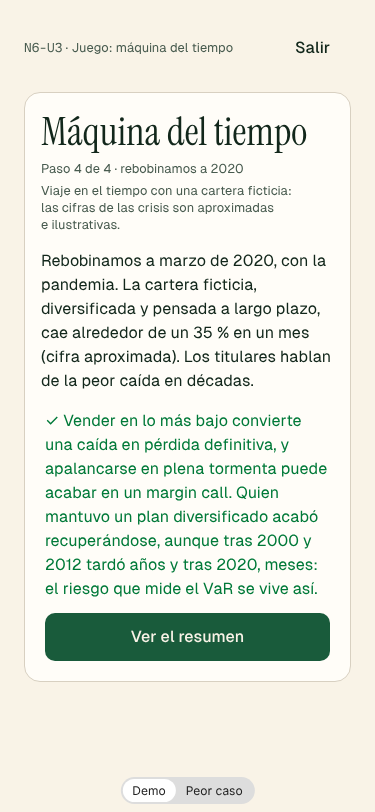
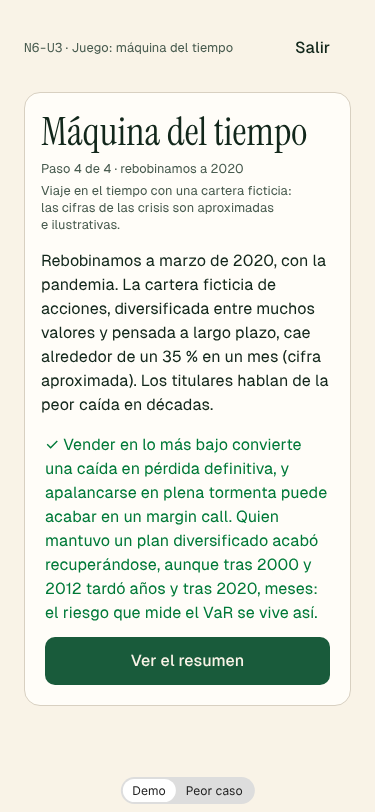
content: n6-u3 ronda 1 (CVaR al 98 %, backtest al 95 %, Jefe e5, salto) en draft
Claude-Session: https://claude.ai/code/session_01MmSrs1YdgLJhPMsRgWQM9q

Changed region(s): [[0.1173, 0.3387, 0.88, 0.8621], [0.9093, 0.8313, 0.9387, 0.8621], [0.0587, 0.8313, 0.088, 0.8621]]

diff --git a/src/engine/games/time-machine.ts b/src/engine/games/time-machine.ts
@@ -6,7 +6,7 @@ import { mulberry32 } from '../prng';
  * aproximadas e ilustrativas, y la pantalla lo dice:
  *   1. Antes de 2008, con la volatilidad diaria de los años tranquilos: VaR paramétrico a un día = z × σ × valor
  *      (media diaria ≈ 0). Distractores: con el z del otro nivel de confianza y sin z.
- *   2. Los peores días de 2008: el CVaR (expected shortfall) es la media de las pérdidas que superan el VaR.
+ *   2. Los cinco peores días de 2008, el peor 2 % de 250 sesiones: su media es el CVaR histórico al 98 %.
  *      Distractores: la peor pérdida y el propio VaR.
  *   3. Backtesting del VaR en 2008: excepciones esperadas en 250 días = 250 × (1 − confianza). Distractores: las
  *      observadas y una al año.
@@ -25,7 +25,7 @@ export interface MachineSetup {
   conf: 95 | 99;
   /** Cinco peores pérdidas diarias de 2008 (décimas de punto, en positivo), por encima del VaR. */
   worst10: [number, number, number, number, number];
-  /** Excepciones observadas en los 250 días de 2008. */
+  /** Excepciones observadas en los 250 días de 2008 (siempre más que las esperadas). */
   observed: number;
   crisis: Crisis;
 }
@@ -63,9 +63,10 @@ export function setupMachine(seed: number): MachineSetup {
         top - 27,
         top - pick(rnd, [33, 36]),
       ] as [number, number, number, number, number],
-      observed: pick(rnd, [8, 10, 12, 14, 18]),
+      observed: 0,
       crisis: pick(rnd, ['2000', '2012', '2020'] as const),
     };
+    s.observed = s.conf === 99 ? pick(rnd, [8, 10, 12, 14, 18]) : pick(rnd, [18, 22, 26, 30]);
     if (
       new Set(varOptions(s)).size === 3 &&
       new Set(cvarOptions(s)).size === 3 &&
@@ -89,7 +90,7 @@ export function varOptions(s: MachineSetup): number[] {
   ].sort((a, b) => a - b);
 }
 
-/** Paso 2: CVaR, la media de las peores pérdidas por encima del VaR (%, 2 decimales). */
+/** Paso 2: CVaR histórico al 98 %, la media de los cinco peores días de 250 (%, 2 decimales). */
 export const worstLosses = (s: MachineSetup) => s.worst10.map((w) => w / 10);
 export const cvarPct = (s: MachineSetup) => r2(worstLosses(s).reduce((a, b) => a + b, 0) / 5);
 export function cvarOptions(s: MachineSetup): number[] {

diff --git a/src/engine/games/time-machine.test.ts b/src/engine/games/time-machine.test.ts
@@ -45,6 +45,13 @@ describe('Máquina del tiempo (N6)', () => {
     expect(crises).toEqual(new Set(['2000', '2012', '2020']));
   });
 
+  it('en 10.000 semillas: el backtest siempre tiene más excepciones de las esperadas', () => {
+    for (let seed = 0; seed < 10_000; seed++) {
+      const s = setupMachine(seed);
+      expect(s.observed).toBeGreaterThan(expected(s));
+    }
+  });
+
   it('cifras para la lección: todo bien da 4 aciertos', () => {
     const s = setupMachine(0);
     const v = machineValues(s, { var: 23_300, cvar: 7, expected: 2.5, move: 'hold' });

diff --git a/docs/specs/maquina-del-tiempo-n6.md b/docs/specs/maquina-del-tiempo-n6.md
@@ -4,10 +4,10 @@ Motor: `src/engine/games/time-machine.ts`. Interfaz: `src/features/games/TimeMac
 
 ## Reglas
 - **Paso 1 (VaR paramétrico, 2007):** VaR a un día = z × σ × valor, con media diaria cero y z = 1,645 (95 %) o 2,33 (99 %); el porcentaje se redondea a 2 decimales. Semilla 0: 1.000.000 €, σ 1 %, 99 %: 23.300 €. Distractores: con el z del otro nivel (16.500 €) y sin z (10.000 €).
-- **Paso 2 (CVaR, otoño de 2008):** media de los cinco peores días, todos por encima del VaR. Semilla 0: 9; 7,6; 6,9; 6,1 y 5,4 % → 7 %. Distractores: el peor día (9 %) y el VaR (2,33 %).
+- **Paso 2 (CVaR, otoño de 2008):** media de los cinco peores días del año, el peor 2 % de 250 sesiones: un CVaR histórico al 98 %. Todos superan el VaR. Semilla 0: 9; 7,6; 6,9; 6,1 y 5,4 % → 7 %. Distractores: el peor día (9 %) y el VaR (2,33 %).
 - **Paso 3 (backtesting en 2008):** excepciones esperadas = 250 × (1 − confianza). Semilla 0: 2,5 frente a 12 observadas, zona roja del semáforo de Basilea (al 99 %: verde 0–4, amarilla 5–9, roja 10 o más; al 95 % no se muestra zona). Distractores: las observadas y 1.
 - **Paso 4 (decisión en otra crisis):** con la cartera muy por debajo y titulares alarmistas: mantener el plan y rebalancear (bien), venderlo todo o pedir prestado para comprar más. La explicación compara con quien no hizo nada: vender fija la pérdida y apalancarse arriesga un margin call; quien mantuvo se recuperó (años tras 2000 y 2012, meses tras 2020).
-- La semilla sortea valor (1, 2 o 5 millones), σ (0,8; 1 o 1,2 %), confianza, los peores días, las excepciones observadas (8 a 18) y la crisis del paso 4, y repite el sorteo hasta que las opciones de cada paso se distinguen y todos los peores días superan el VaR (comprobado en 10.000 semillas, con las tres crisis).
+- La semilla sortea valor (1, 2 o 5 millones), σ (0,8; 1 o 1,2 %), confianza, los peores días, las excepciones observadas (8 a 18 al 99 %; 18 a 30 al 95 %, siempre por encima de las 12,5 esperadas) y la crisis del paso 4, y repite el sorteo hasta que las opciones de cada paso se distinguen y todos los peores días superan el VaR (comprobado en 10.000 semillas, con las tres crisis).
 - Nota: un cuarto por paso.
 - Cifras para la lección (`machineValues`): `value`, `sigma`, `conf`, `tail`, `z`, `var_pct`, `var_eur`, `worst`, `cvar_pct`, `cvar_eur`, `days`, `expected`, `observed` y `hits`.
 - Peor caso (`worst-seeds.ts`): semilla 31, 5.000.000 € al 95 % con σ 1,2 %: VaR de 98.500 € y CVaR del 7,66 %.
